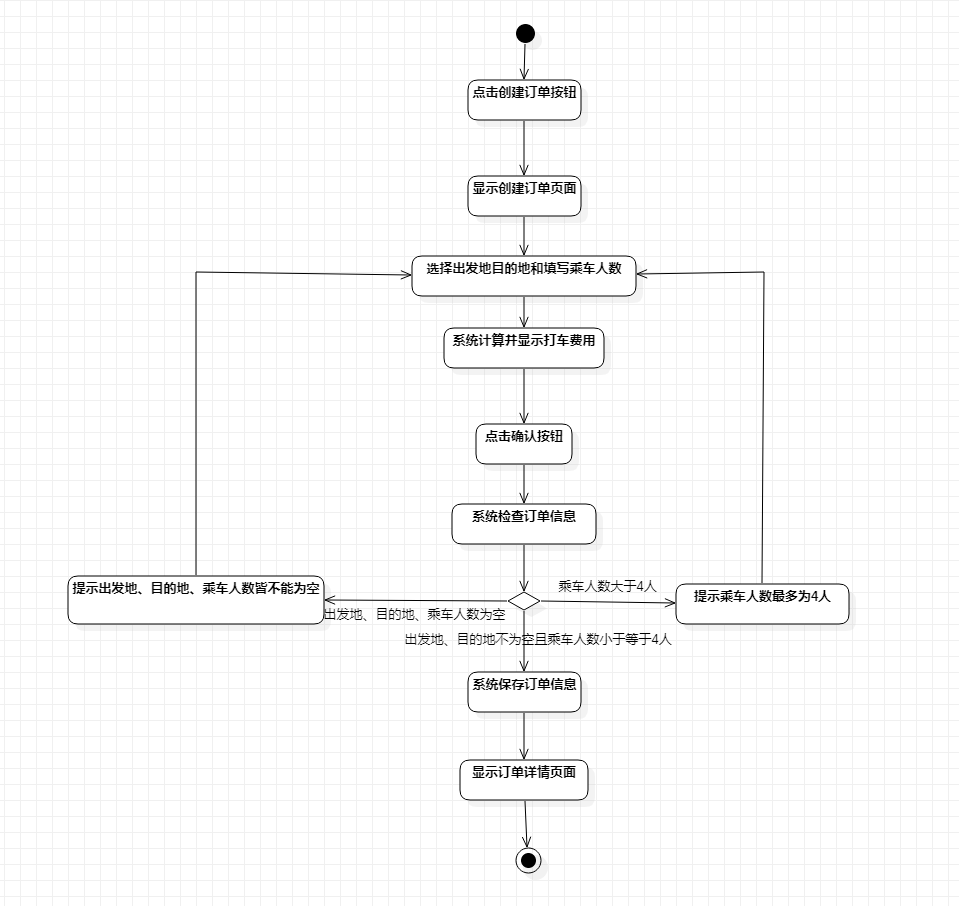
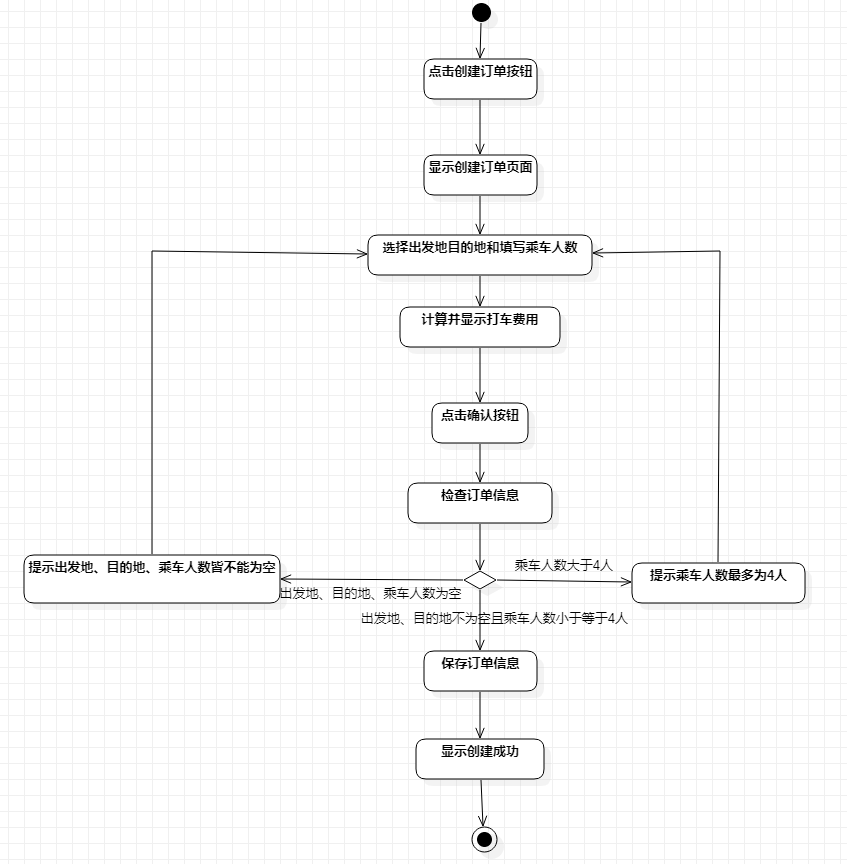
#4 #5 #427 实验四五 类建模 #3 #427 修改实验三 过程建模

Changed region(s): [[0.0307, 0.0, 0.9516, 1.0], [0.8288, 0.2812, 0.8595, 0.3125]]

diff --git a/students/1714080902430/label2.md b/students/1714080902430/label2.md
@@ -55,7 +55,7 @@
 ~| 5. 乘客点击确认按钮；  |  
 ~| 6. 系统检查订单信息无错误；  |  
 ~| 7. 系统保存订单信息；  |  
-~| 8. 系统显示订单详情页面。  |  
+~| 8. 系统显示创建成功。  |  
 扩展流程  | 6.1 系统检查发现乘车人数、出发地、目的地其一为空，提示出发地、目的地、乘车人数皆不能为空； |*用例执行失败*  
 ~  | 6.2 系统检查发现乘车人数大于标准乘车人数，提示乘车人数最多为4人。 | 
 
@@ -68,12 +68,11 @@
 前置条件  |  乘客已登录且存在未支付订单；  |   
 后置条件  | 显示订单详情页面；     |   
 基本流程  | 1. 乘客点击支付订单按钮；  |*用例执行成功的步骤*    
-~| 2. 系统查询乘客账户余额；  |
-~| 3. 系统检查乘客账户余额信息；  |
-~| 4. 系统在乘客的账户余额中减去打车费用；  |      
-~| 5. 系统更新乘客账户余额；  |   
-~| 6. 系统显示支付成功页面。  |   
-扩展流程  | 3.1 系统检查发现乘客账户余额小于打车费用，提示乘客“账户余额不足”。 |*用例执行失败*  
+~| 2. 系统查询乘客账户，检查乘客账户余额大于打车费用；  |
+~| 3. 系统减去打车费用；  |      
+~| 4. 系统更新乘客账户余额，修改订单为已支付状态；  |   
+~| 5. 系统显示支付成功。  |   
+扩展流程  | 2.1 系统检查发现乘客账户余额小于打车费用，提示乘客“账户余额不足”。 |*用例执行失败*  
 
 ## 表3：接订单用例规约  
 
@@ -83,10 +82,7 @@
 前置条件  |  司机已登录、认证且存在可接订单  | 
 后置条件  | 显示接单成功页面     |   
 基本流程  | 1. 司机点击接单按钮；  |*用例执行成功的步骤*    
-~| 2. 系统查询订单信息；  |   
-~| 3. 系统检查订单存在；  |   
-~| 4. 系统检查订单状态可接；  |   
+~| 2. 系统查询订单信息，检查订单状态可接；  |   
 ~| 3. 系统修改订单为已接状态；  |  
-~| 4. 系统显示接单成功页面。  |   
-扩展流程  | 3.1 系统检查发现订单为空，提示“订单不存在”。 |*用例执行失败*  
-~| 4.1 系统检查发现订单状态为不可接，提示“当前订单已被接”。 |
+~| 4. 系统显示接单成功。  |   
+扩展流程  | 2.1 系统检查发现订单状态为不可接，提示“当前订单已被接”。 |*用例执行失败*  

diff --git a/students/1714080902430/label4.md b/students/1714080902430/label4.md
@@ -1,0 +1,38 @@
+# 实验四、五：类建模
+
+## 一. 实验目标
+1. 掌握类建模方法；
+2. 了解MVC或你熟悉的设计模式；
+3. 掌握类图的画法。（Class Diagram）
+
+
+
+## 二、实验内容
+
+1. 基于MVC模式设计类；
+2. 设计类的关系；
+3. 画出类图。
+
+
+
+## 三、实验步骤
+
+1. 分析自己的用例能否使用MVC设计模式实现
+2. 从用例图和活动图中抽象数据对象形成Model
+3. 找出已有的界面
+4. 分析每一个类之间的关系，是依赖还是聚合等
+5. 连接Model、View和Controller
+
+## 四、实验结果
+
+
+![创建订单的类图](./Lab4-1.jpg)  
+图1. 创建订单的类图
+
+![支付订单的类图](./Lab4-2.jpg)  
+图2. 支付订单的类图
+
+![创接单的类图](./Lab4-3.jpg)  
+图3. 接订单的类图
+
+
